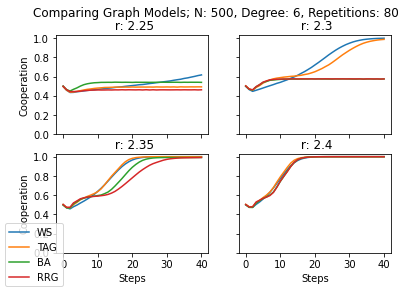
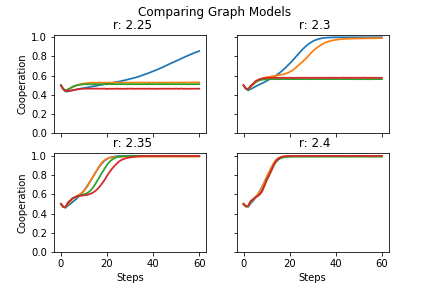
removing legends from image

diff --git a/experiment_home.py b/experiment_home.py
@@ -21,17 +21,28 @@ import math
 import matplotlib.pyplot as plt
 #random.seed(2)
 
+## Control board
+
+run = 1
+CI = False #true is when assume normal distribution, false is empirical quantiles
+
+MeansOnly = True
+
+save = 0 #save the figure
+
+filename = 'TAfig4b'
+
 parameters = {
     'seed': 42,
     'steps': 40, #number of time periods
     'agent_n': 500,
     'phi':ap.Values(1.2, 1.8, 2.0, 2.2, 2.4,2.6, 3.0,4.0), #multiplier for common contributions
     'graph_m' : 6,
-    'graph_alpha': 0.3,
+    'graph_alpha': 1.0,
     'graph_p':0.05,
     'gtype': 'TAG',
     'atype': AT,
-    'replicator_alpha': 0.0, #1 is pure replicator, 0 is imitation
+    'replicator_alpha': 1.0, #1 is pure replicator, 0 is imitation
     'plot_G': 0 #gives the summary plot of the graph for each experiment
 }
 
@@ -45,7 +56,10 @@ sample = ap.Sample(
 reps = 40
 exp = ap.Experiment(WealthModel, sample, iterations=reps,
                     record = True)
-results = exp.run()
+
+if run:
+
+    results = exp.run()
 
 
 
@@ -55,20 +69,15 @@ results = exp.run()
 
 
 
-CI = False #true is when assume normal distribution, false is empirical quantiles
 
-MeansOnly = True
-
-save = False #save the figure
-
-filename = 'sensitivity2'
 
 phis = results.parameters.sample.phi
 
 colours = ['tab:blue', 'tab:orange', 'tab:green', 'tab:red', 'tab:purple', 'tab:brown',\
            'tab:pink','tab:olive', 'tab:cyan', 'tab:gray' ]
     
-markers = ['v', '.','1','8','^','s','p','X','h','d']
+markers = ['2', '3','1','8','^','s','p','X','h','d']
+markers =['o', '*', 'x', 'p', 's', 'd', 'p', 'h']
 colours = colours[:len(phis)]
 
 
@@ -100,28 +109,28 @@ for i in range(len(phis)):
     y3 = phi_graph.q_up.iloc[phi_graph.index.get_level_values('phi') == phis[i]]
     x = phis.index
     #plt.legend(phis.unique())
-    plt.plot(ts,y1, c=colours[i], label = f'r = {phis[i]}')
+    plt.plot(ts,y1, c=colours[i],marker = markers[i],ms = 4,linewidth = 0.6, label = f'r = {phis[i]}') #
     if not MeansOnly:
         plt.plot(ts,y2,  c=colours[i], linestyle = 'dashed', label = f'_5th Percentile of {phis[i]}', alpha = 0.6 )
         plt.plot(ts,y3,  c=colours[i], linestyle =  'dashed', label = f'_95th Percentile of {phis[i]}' , alpha = 0.6)
     
 
-plt.legend( loc='upper right')
+#plt.legend( loc='upper right')
 plt.ylabel('Mean Cooperation')
 plt.xlabel('Round')
 plt.yticks(ticks = [0,0.2,0.4,0.6,0.8,1.0])
 
 #plt.rcParams["figure.figsize"] = (10,10)
 
-plt.title(f"TITLE HERE; N: {parameters['agent_n']} "\
-          f"k: {parameters['graph_m']},Repetitions: {reps}, alpha: {parameters['graph_alpha']} ")
+plt.title(f"Replication of Figure 4b") #"; N: {parameters['agent_n']} "\
+          #f"k: {parameters['graph_m']}, T: {reps}, alpha: {parameters['graph_alpha']} ")
     
 '''   
 plt.title(f' {parameters["agent_n"]} agents,' \
 f'graph: {parameters["gtype"]}, agents: {parameters["atype"]}, graph_alpha: ' \
     f'{parameters["graph_alpha"]}, m: {parameters["graph_m"]}: replicator_alpha:'\
         f' {parameters["replicator_alpha"]}, CI: {CI}'
-          )
+          )No 
     
 '''   
 

diff --git a/comparing_graphs_home.py b/comparing_graphs_home.py
@@ -22,11 +22,20 @@ from Models import *
 import matplotlib.pyplot as plt
 #random.seed(2)
 
+
+#### control box
+save = 1 #save the figure
+run = 0
+
+filename = 'graphs2'
+
+
+
 parameters = {
     'seed':42,
-    'steps': 40, #number of time periods
+    'steps': 60, #number of time periods
     'agent_n': 500,
-    'phi':ap.Values(2.25,2.30,2.35,2.40), # #multiplier for common contributions
+    'phi':ap.Values(2.25,2.3,2.35,2.4), # #multiplier for common contributions
     'graph_m' : 6,
     'graph_alpha': 0.3,
     'graph_p':0.1,
@@ -46,11 +55,17 @@ sample = ap.Sample(
 reps = 80
 exp = ap.Experiment(WealthModel, sample, iterations=reps,
                     record = True)
-results = exp.run()
 
-save = False #save the figure
+if run:
+    results = exp.run()
 
-filename = 'graphs1'
+colours = ['tab:blue', 'tab:orange', 'tab:green', 'tab:red', 'tab:purple', 'tab:brown',\
+           'tab:pink','tab:olive', 'tab:cyan', 'tab:gray' ]
+    
+markers = ['2', '3','1','8','^','s','p','X','h','d']
+markers =['o', '*', 'x', 'p', 's', 'd', 'p', 'h']
+colours = colours[:len(phis)]
+
 
 phis = results.parameters.sample.phi
 coops = results.variables.WealthModel.Cooperation_Level.groupby(['t', 'sample_id']).mean()
@@ -83,7 +98,7 @@ phi_graph = phi_graph.reset_index()
 graphs = results.parameters.sample.gtype
 
 fig,axs = plt.subplots(2,2, sharex = True, sharey = True)
-fig.suptitle(f'Comparing Graph Models; N: {parameters["agent_n"]}, Degree: {parameters["graph_m"]}, Repetitions: {reps} ')
+fig.suptitle(f'Comparing Graph Models ') # N: {parameters["agent_n"]}, Degree: {parameters["graph_m"]}, Repetitions: {reps}
 
 axesx = [0,0,0,1,1,1]
 axesy = [0,1,2,0,1,2]
@@ -98,12 +113,12 @@ for i in range(len(phis.unique())):
         ys = tt.Cooperation_Level.iloc[tt.index.get_level_values('gtype')==j]
         axs[axesx[i], axesy[i]].set_title(f' r: {phis.unique()[i]}')
         
-        axs[axesx[i], axesy[i]].plot(ts,ys, label = j)
+        axs[axesx[i], axesy[i]].plot(ts,ys,marker ='',ms = 5,linewidth = 1.75, label = j)
         #axs[axesx[i], axesy[i]].legend()
         
         
 handles, labels = axs[-1][-1].get_legend_handles_labels()
-fig.legend(handles, labels, loc='lower left')
+#fig.legend(handles, labels, loc='lower left')
 
 
 for ax in axs.flat:
